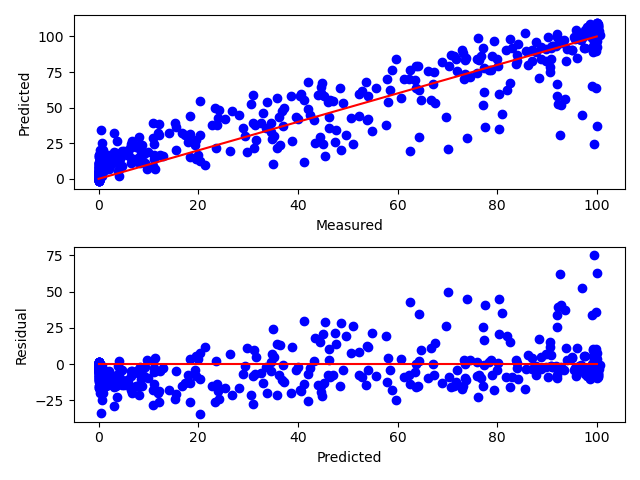
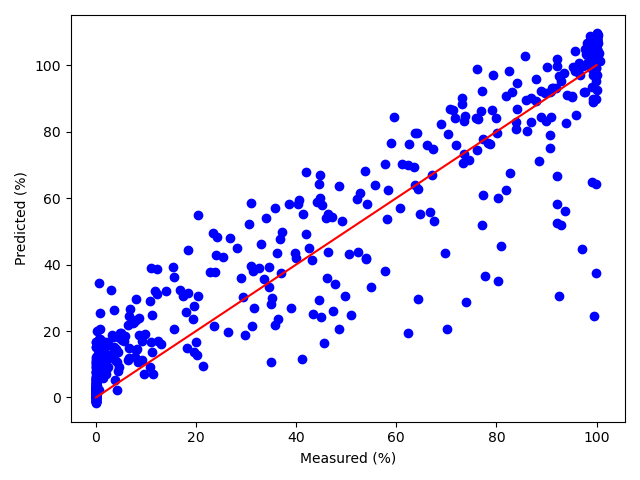
figure added

diff --git a/Scripts/project_model.py b/Scripts/project_model.py
@@ -51,17 +51,12 @@ print('\nTest loss: {0:.2f}. Test accuracy: {1:.2f}%'.format(test_loss, test_acc
 
 predictions = model.predict(test_inputs)
 print("predictions shape:", predictions.shape)
-plt.subplot(2,1,1)
+
 plt.scatter(test_targets[:,6]*100,predictions[:,6]*100,color="blue")
 plt.plot([0,100],[0,100],color="red")
-plt.xlabel("Measured")
-plt.ylabel("Predicted")
-
-plt.subplot(2,1,2)
-plt.scatter(test_targets[:,6]*100,(test_targets[:,6]-predictions[:,6])*100,color="blue")
-plt.plot([0,100],[0,0],color="red")
-plt.xlabel("Predicted")
-plt.ylabel("Residual")
+plt.xlabel("Measured (%)")
+plt.ylabel("Predicted (%)")
 plt.tight_layout()
 plt.savefig("../Results/image.png")
+
 model.save("../Results/model.h5")
